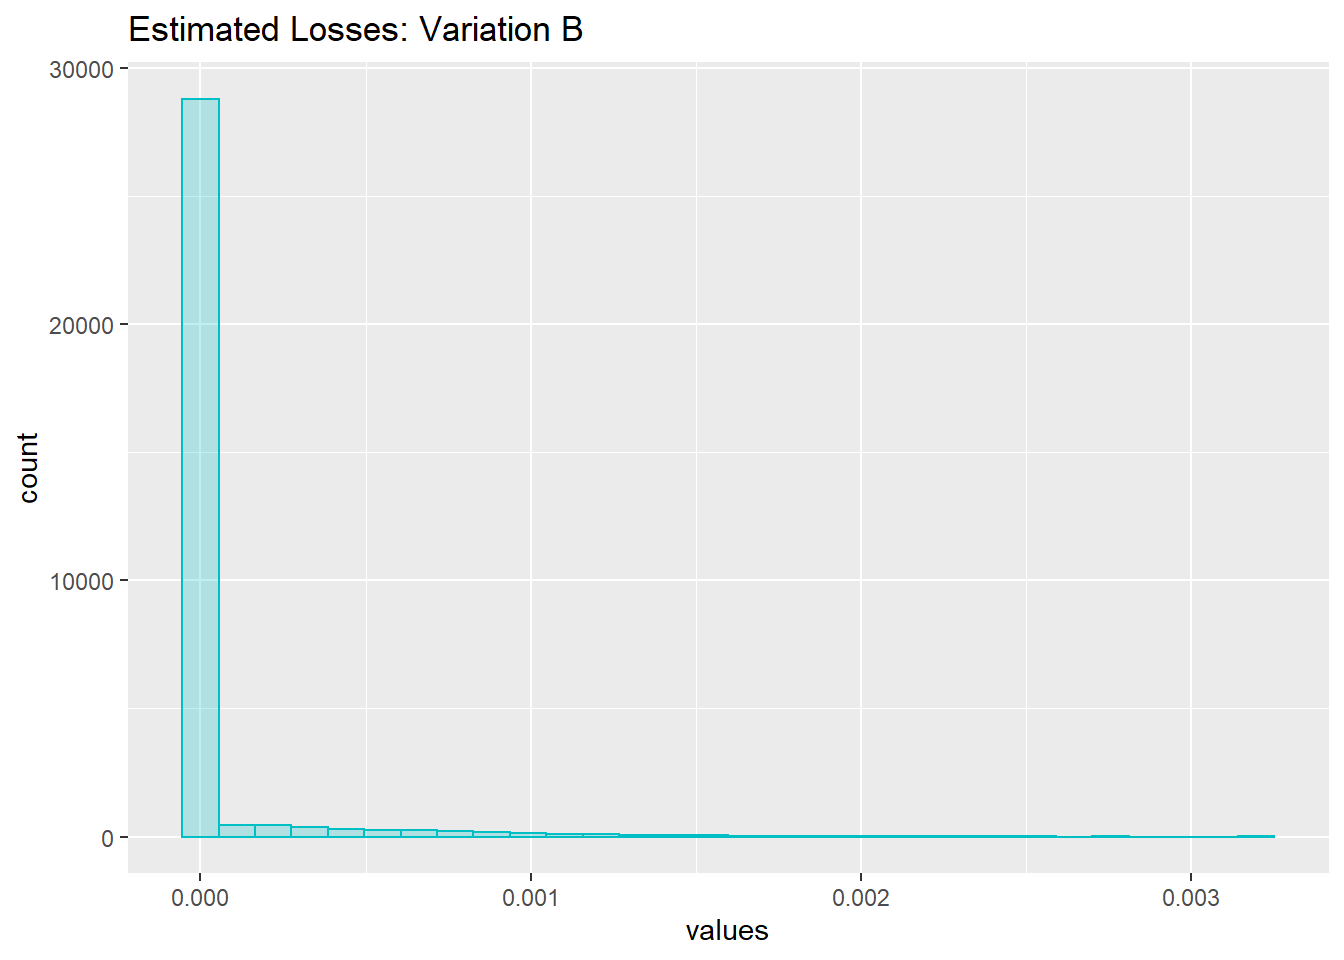
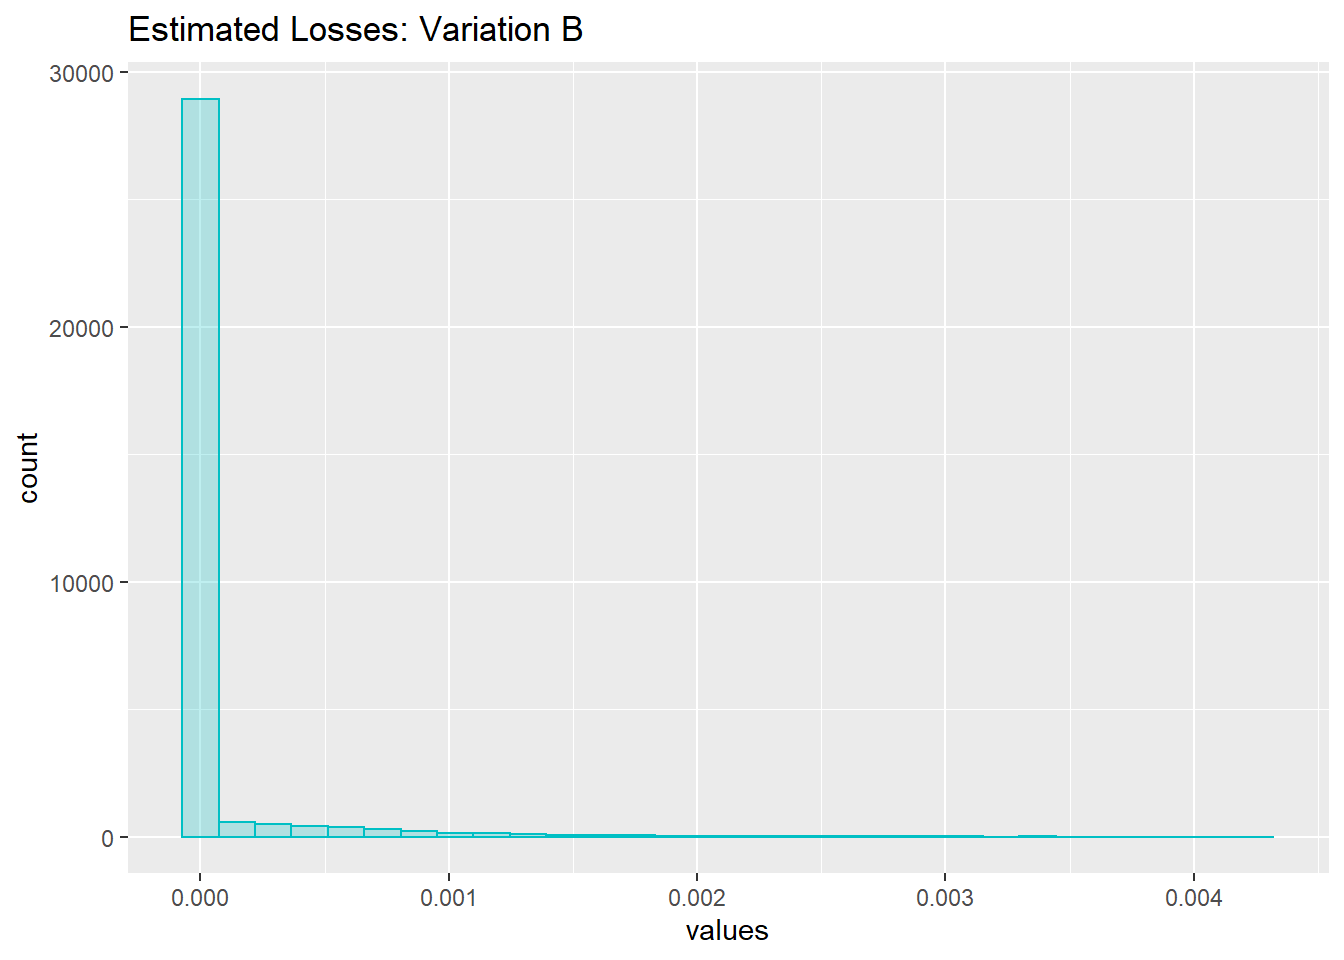
changes to gitignore and webpage

diff --git a/docs/tutorial.html b/docs/tutorial.html
@@ -385,11 +385,11 @@ end.fit &lt;- sampling(ABmodel,
 ## post-warmup draws per chain=8000, total post-warmup draws=32000.
 ## 
 ##              mean se_mean   sd     2.5%      25%      50%      75%    97.5% n_eff Rhat
-## theta[1]     0.12    0.00 0.01     0.11     0.12     0.12     0.12     0.13 24101    1
-## theta[2]     0.13    0.00 0.01     0.11     0.12     0.13     0.13     0.14 24584    1
-## lp__     -2157.94    0.01 1.01 -2160.69 -2158.32 -2157.64 -2157.23 -2156.96 13872    1
+## theta[1]     0.12    0.00 0.01     0.11     0.12     0.12     0.12     0.13 31925    1
+## theta[2]     0.13    0.00 0.01     0.11     0.12     0.13     0.13     0.14 29965    1
+## lp__     -2157.93    0.01 0.99 -2160.61 -2158.31 -2157.63 -2157.23 -2156.97 13876    1
 ## 
-## Samples were drawn using NUTS(diag_e) at Tue Dec 31 11:48:47 2019.
+## Samples were drawn using NUTS(diag_e) at Tue Dec 31 12:12:16 2019.
 ## For each parameter, n_eff is a crude measure of effective sample size,
 ## and Rhat is the potential scale reduction factor on split chains (at 
 ## convergence, Rhat=1).</code></pre>
@@ -402,7 +402,7 @@ end.fit &lt;- sampling(ABmodel,
 <pre class="r"><code>posterior.mat &lt;- as.matrix(end.fit)
 # Find the percent of click rates that are larger in the control group 
 sum(posterior.mat[,1]&gt;posterior.mat[,2])/nrow(posterior.mat)</code></pre>
-<pre><code>## [1] 0.1079688</code></pre>
+<pre><code>## [1] 0.106625</code></pre>
 <p>We see that if we choose to switch from design A to design B, there is about an 11% chance that we are wrong. This might be too high of a risk for many people to consider switching, but it’s not the end of the story. The problem with quantifying the switching risk in this manner is that it treats all differences in the group click rates as equal. For example, suppose that in reality <span class="math inline">\(\theta_A-\theta_B = 0.0001\)</span> (i.e. theres a very small difference in favor of variation A). If we choose to adopt variation B based on the previous analysis, the mistake we make is not really a problem. On the other hand, suppose that <span class="math inline">\(\theta_A-\theta_B = 0.1\)</span>. Choosing to switch to variation B is a far more severe mistake in this case, because group A was significantly more favorable in reality. A class of functions called <em>loss functions</em> are used to assign penalties to increasing larger errors. If you’ve ever fit a regression model to data using least squares, you’ve fit a line of best fit by minimizing a quadratic loss function. The loss function I’ll use comes from Stucchio (2015). The loss function for staying with variation A is <span class="math display">\[L(\theta_A, \theta_B, A) = \max(\theta_B-\theta_A, 0).\]</span> Similarly, if we choose variation B, the loss function is <span class="math display">\[L(\theta_A, \theta_B, B) = \max(\theta_A-\theta_B, 0).\]</span> Along with having some nice properties (I’ll include Stucchio’s paper in the repository), this loss functino has the advantage that the output values are on the same scale as the click probabilities. That is, the loss function tells us the percentage of users that we would lose <em>given that we made the wrong decision.</em> We can code this loss function into R and then apply it to the matrix of posterior observations we defined above</p>
 <pre class="r"><code>lossA &lt;- function(theta.vec){
   if (theta.vec[2]-theta.vec[1] &gt; 0) return(theta.vec[2]-theta.vec[1])
@@ -418,9 +418,9 @@ loss.dist.A &lt;- apply(posterior.mat[,1:2], 1, lossA)</code></pre>
 <p><img src="tutorial_files/figure-html/unnamed-chunk-10-1.png" width="50%" /><img src="tutorial_files/figure-html/unnamed-chunk-10-2.png" width="50%" /><img src="tutorial_files/figure-html/unnamed-chunk-10-3.png" width="50%" /></p>
 <p>We can also calculate the expected loss for each variation.</p>
 <pre class="r"><code>mean(loss.dist.A)</code></pre>
-<pre><code>## [1] 0.001537183</code></pre>
+<pre><code>## [1] 0.001543168</code></pre>
 <pre class="r"><code>mean(loss.dist.B)</code></pre>
-<pre><code>## [1] 6.223857e-05</code></pre>
+<pre><code>## [1] 6.260651e-05</code></pre>
 <p>Variation B is the clear winner here. Even though there’s an 11% chance that we’re making a mistake by switching to group B, the expected loss is so small that making such a mistake isn’t really an issue. Another great advantage of this technique is that we can set an expected loss threshold before we conduct the A/B test. The test is then run until one of the two groups falls below the threshold. This ensures that we collect enough data to make an accurate and informed decision, but also ensures that we don’t waste time and resources. Finally, we’ll conclude that the e-commerce website is better off if they change the color of the “Add to Cart” button.</p>
 </div>
 <div id="conclusion" class="section level1">
